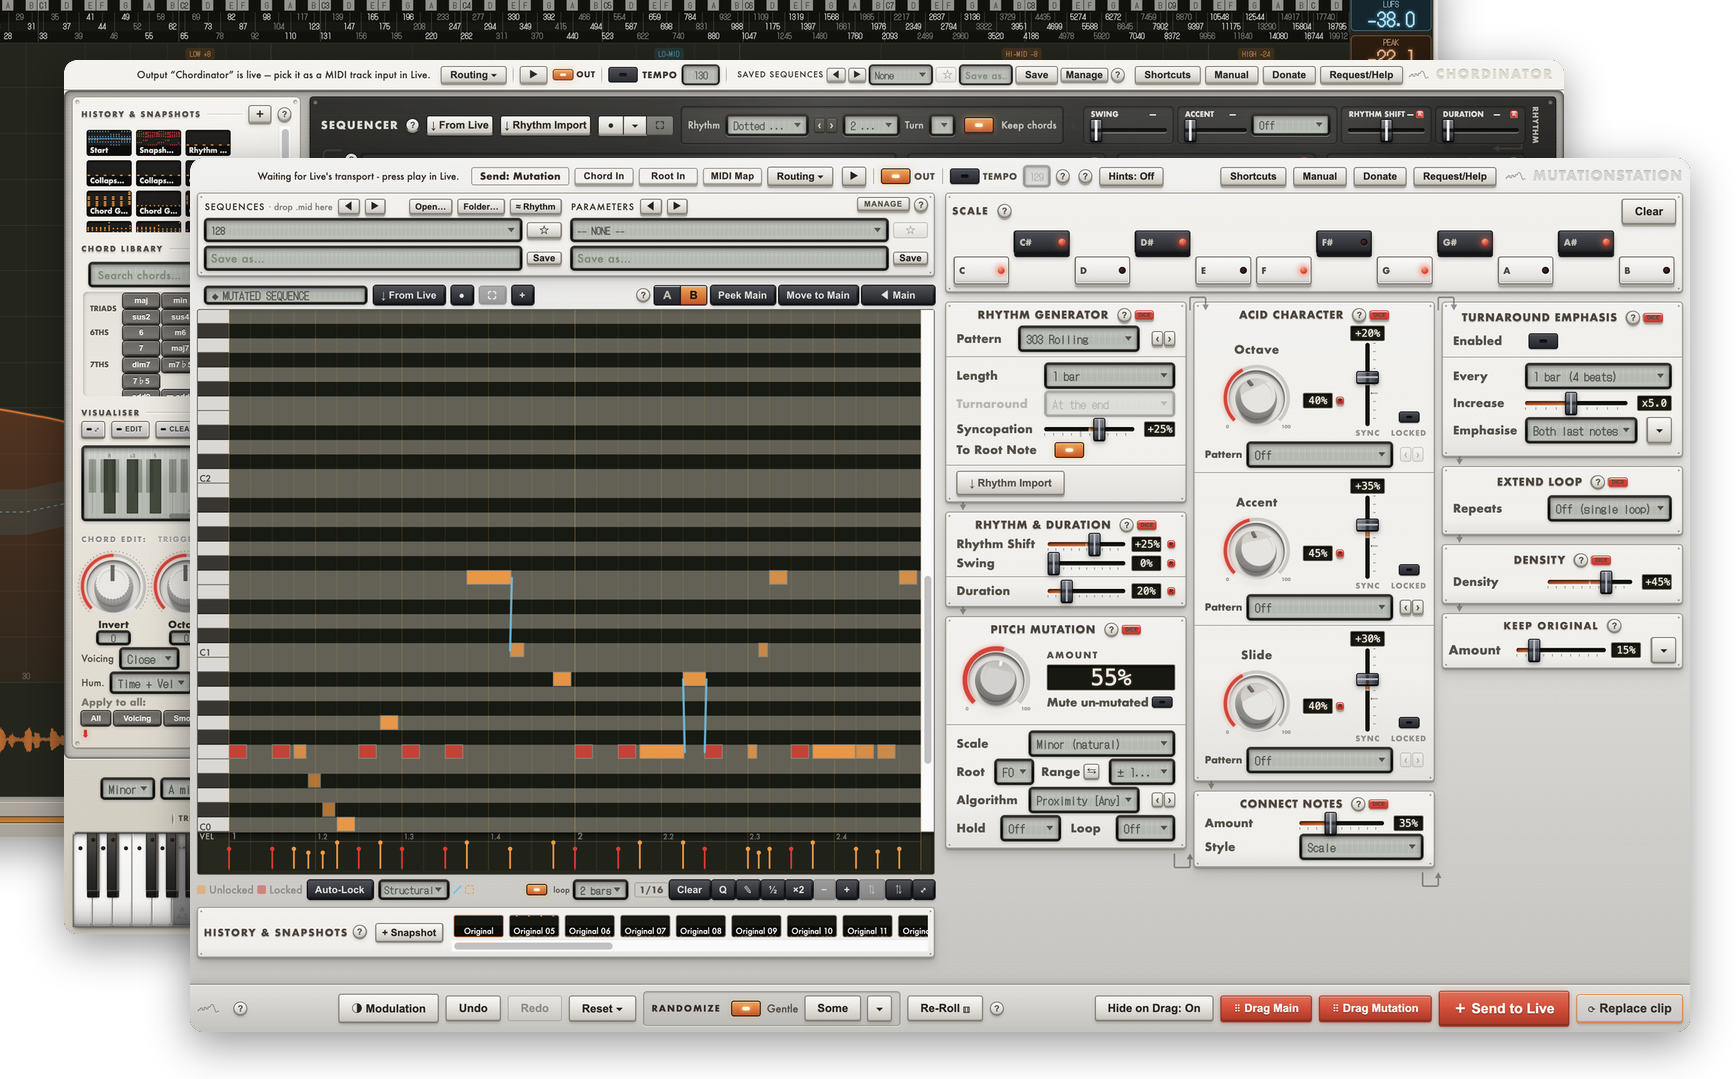
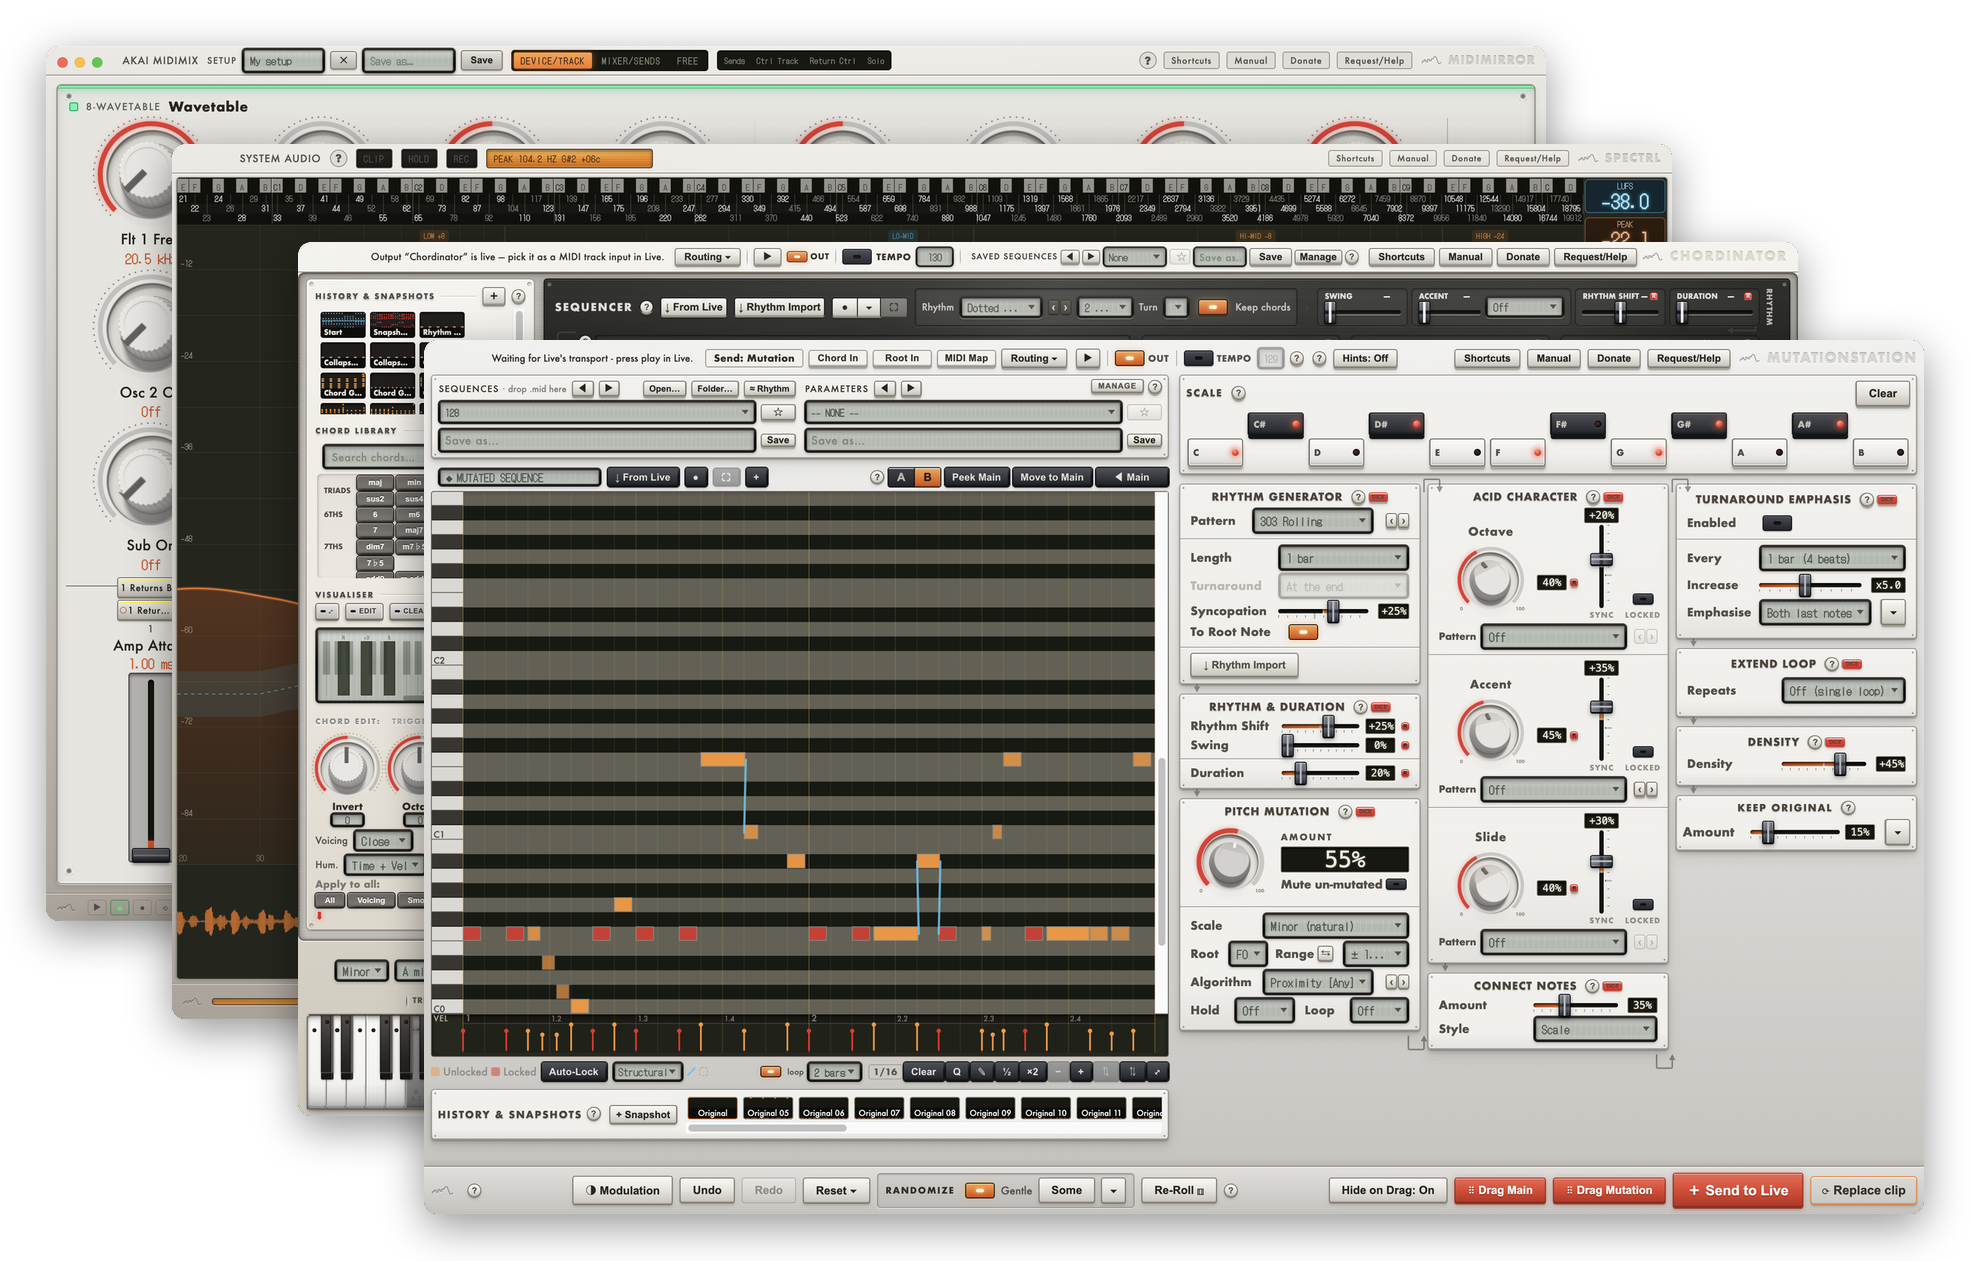
Homepage copy: Ableton Live Companion apps, drop macOS eyebrow line

diff --git a/index.html b/index.html
@@ -4,7 +4,7 @@
 <meta charset="utf-8" />
 <meta name="viewport" content="width=device-width, initial-scale=1" />
 <title>JamWare Audio · Standalone Mac apps for music production</title>
-<meta name="description" content="Standalone Mac apps with the depth of hardware: MutationStation, Chordinator, Spectrl and MidiMirror. Built for Ableton Live, compatible with any DAW." />
+<meta name="description" content="Ableton Live Companion apps with the depth of hardware: MutationStation, Chordinator, Spectrl and MidiMirror. Built for Ableton Live, compatible with any DAW." />
 <!-- The company mark, not an app icon: every tab of this site used to be
      branded MutationStation, which reads as one product rather than five. -->
 <link rel="icon" href="assets/favicon.svg" />
@@ -17,12 +17,12 @@
 <meta property="og:type" content="website" />
 <meta property="og:site_name" content="JamWare Audio" />
 <meta property="og:title" content="JamWare Audio · Standalone Mac apps for music production" />
-<meta property="og:description" content="Standalone Mac apps with the depth of hardware: MutationStation, Chordinator, Spectrl and MidiMirror. Built for Ableton Live, compatible with any DAW." />
+<meta property="og:description" content="Ableton Live Companion apps with the depth of hardware: MutationStation, Chordinator, Spectrl and MidiMirror. Built for Ableton Live, compatible with any DAW." />
 <meta property="og:url" content="https://jamwareaudio.github.io/" />
 <meta property="og:image" content="https://jamwareaudio.github.io/assets/shots/hero-stack.png" />
 <meta name="twitter:card" content="summary_large_image" />
 <meta name="twitter:title" content="JamWare Audio · Standalone Mac apps for music production" />
-<meta name="twitter:description" content="Standalone Mac apps with the depth of hardware: MutationStation, Chordinator, Spectrl and MidiMirror. Built for Ableton Live, compatible with any DAW." />
+<meta name="twitter:description" content="Ableton Live Companion apps with the depth of hardware: MutationStation, Chordinator, Spectrl and MidiMirror. Built for Ableton Live, compatible with any DAW." />
 <meta name="twitter:image" content="https://jamwareaudio.github.io/assets/shots/hero-stack.png" />
 <link rel="stylesheet" href="styles.css" />
 
@@ -62,7 +62,6 @@
 <main>
 
   <section class="hero wrap">
-    <p class="legend eyebrow">Standalone tools for macOS</p>
     <!-- ⚠ The headline is the NAME, not a claim, and that is deliberate as of
          2026-08-13 at the user's instruction. It is set as engraved metal
          (.engraved, in styles.css) because the whole site argues these are
@@ -88,7 +87,7 @@
          product pages make at length. No hardware brand is named here, at the
          user's instruction — the comparison is evoked, not claimed. -->
     <h1 class="engraved">JamWare Audio Companion Apps</h1>
-    <p class="hero-claim">Standalone Mac apps with the depth of hardware.</p>
+    <p class="hero-claim">Ableton Live Companion apps with the depth of hardware.</p>
     <p>
       Mac apps built around the parts of a session that software usually leaves
       you to do by hand: mutating a bassline into a hundred, triggering chords
@@ -214,28 +213,6 @@
         </div>
       </article>
 
-      <!-- ---------------------------------------------------------- Arranger -->
-      <article class="product panel" style="--accent:#5B9E63">
-        <h2 class="panel-head">Arranger · in development</h2>
-        <div class="panel-body">
-          <img class="icon" src="assets/icons/arranger-1024.png" alt="Arranger icon" />
-          <div>
-            <h3><a href="apps/arranger.html">Arranger</a></h3>
-            <p class="tagline">Session loops into a full arrangement, from a template.</p>
-            <p class="blurb">
-              Describe the song, as Intro 8, Verse 16, Chorus 16, and say which
-              roles play in which section. Arranger takes each track's Session
-              clip and lays it out across the Arrangement timeline, tiling MIDI
-              and audio to fill every section it belongs in.
-            </p>
-            <div class="btn-row">
-              <span class="status">Not released yet</span>
-              <a class="btn btn-ghost" href="apps/arranger.html">Details</a>
-            </div>
-          </div>
-        </div>
-      </article>
-
     </div>
   </section>
 
@@ -283,19 +260,17 @@
           <div class="suite-icons">
             <img src="assets/icons/spectrl-1024.png" alt="" />
             <img src="assets/icons/midimirror-1024.png" alt="" />
-            <img src="assets/icons/arranger-1024.png" alt="" />
           </div>
           <div class="prose">
             <p>
-              Spectrl, MidiMirror and Arranger: the three that handle the session
-              around the notes. See what you are actually hearing, decide what
-              every knob on your controller reaches, and lay Session loops out
-              into a finished arrangement. Arranger is still in development and
-              lands in the bundle when it ships.
+              Spectrl and MidiMirror, the tools that handle the session around
+              the notes. See what you are actually hearing, and decide what
+              every knob on your controller reaches. Same faceplate, same
+              conventions, one purchase.
             </p>
             <div class="btn-row">
               <a class="btn gumroad-button" href="https://jamwareaudio.gumroad.com/l/toolbox-bundle">Get the Toolbox Bundle</a>
-              <span class="price">Three apps &middot; one purchase</span>
+              <span class="price">Two apps &middot; one purchase</span>
             </div>
           </div>
         </div>

diff --git a/make-hero.py b/make-hero.py
@@ -87,17 +87,18 @@ for i, win in enumerate(windows):
     canvas = Image.alpha_composite(canvas, layer)
 
 # ---- Crop the cascade into the frame ---------------------------------------
-# The full stack was 1970px wide with the front window taking 76% of it, which
-# at the site's 1000px content width rendered every window at under half the
-# size its UI was designed for. The apps are laid out for a 1600pt window; a
-# hero nobody can read is a hero that only says "some software exists".
-#
-# So the stack is cropped into rather than shrunk to fit: the back windows run
-# off the top-left edge of the frame the way windows run off the edge of a real
-# desktop, and the front two, which are the ones the site is actually arguing
-# for, get the pixels. Raise BLEED to push more of the range out of frame and
-# make the front window bigger; drop it to show more of the stack.
-BLEED = 0.62
+# BLEED used to be 0.62, on the theory that cropping into the back of the
+# stack would make the front window bigger once the page's 620px height cap
+# scaled it down. That theory was wrong: the height cap scales from the
+# canvas's own height, which barely moves as BLEED changes (the crop trims
+# width, not height), so the front window rendered at the same size either
+# way and the only visible effect was cost. At 0.62 it cropped MidiMirror out
+# of the frame entirely and sliced through the middle of Spectrl's toolbar
+# instead of along its rounded corner, which reads as a broken image rather
+# than a window lying at an angle. BLEED=0 shows the full cascade — all four
+# windows, each ending on its own rounded corner and drop shadow rather than
+# a straight crop line through its content.
+BLEED = 0.0
 canvas = canvas.crop((round(span_x * BLEED), round(span_y * BLEED),
                       canvas_w, canvas_h))
 
